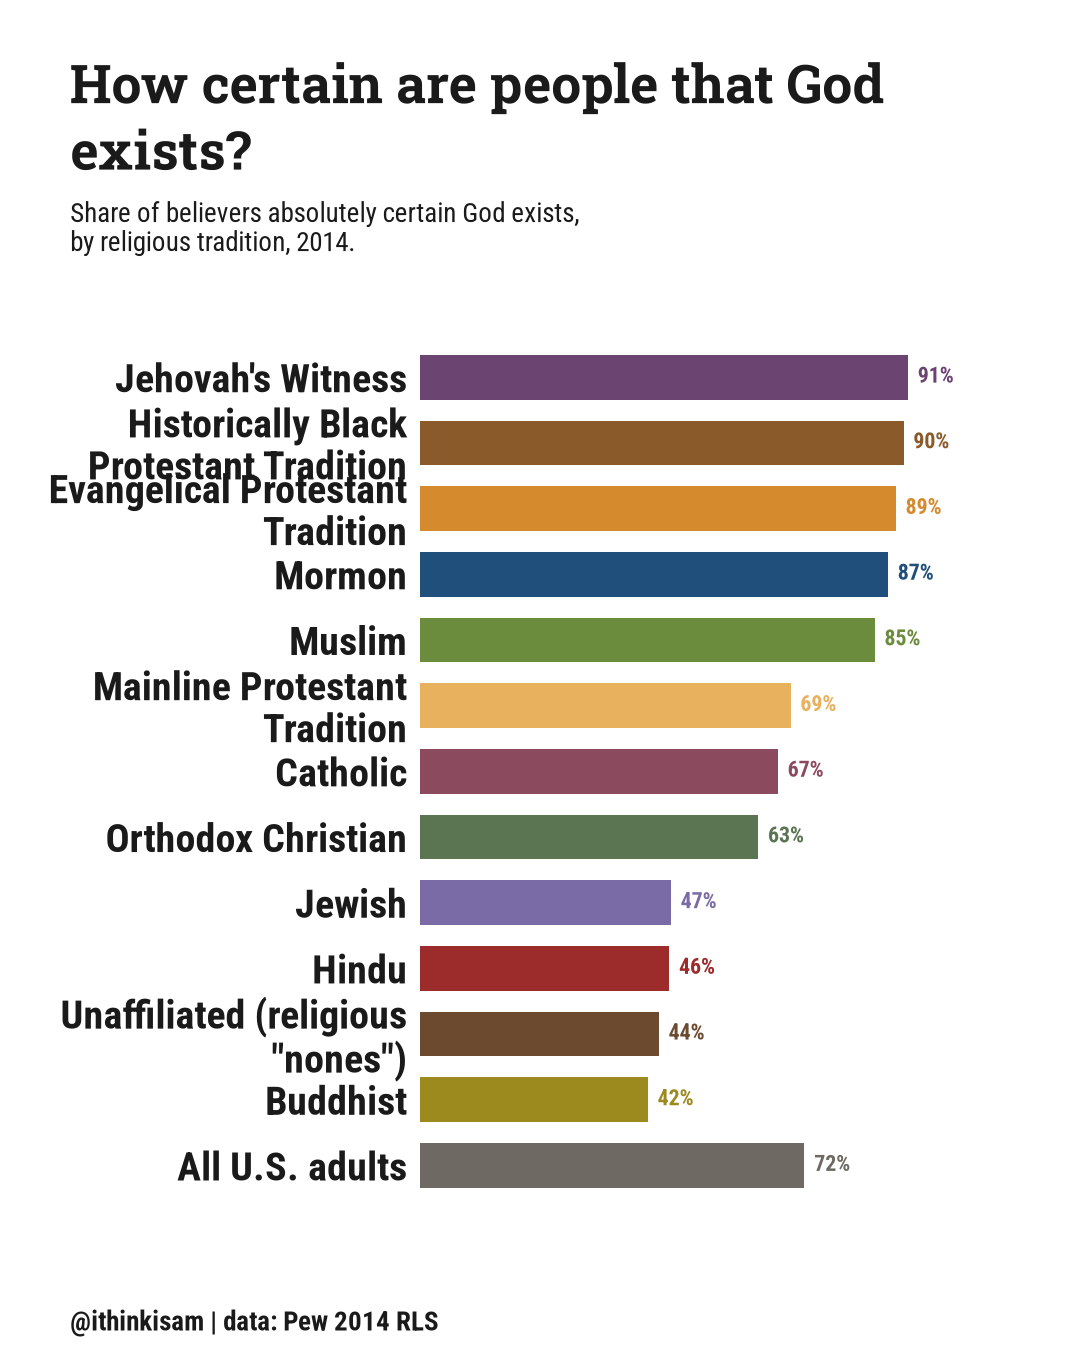
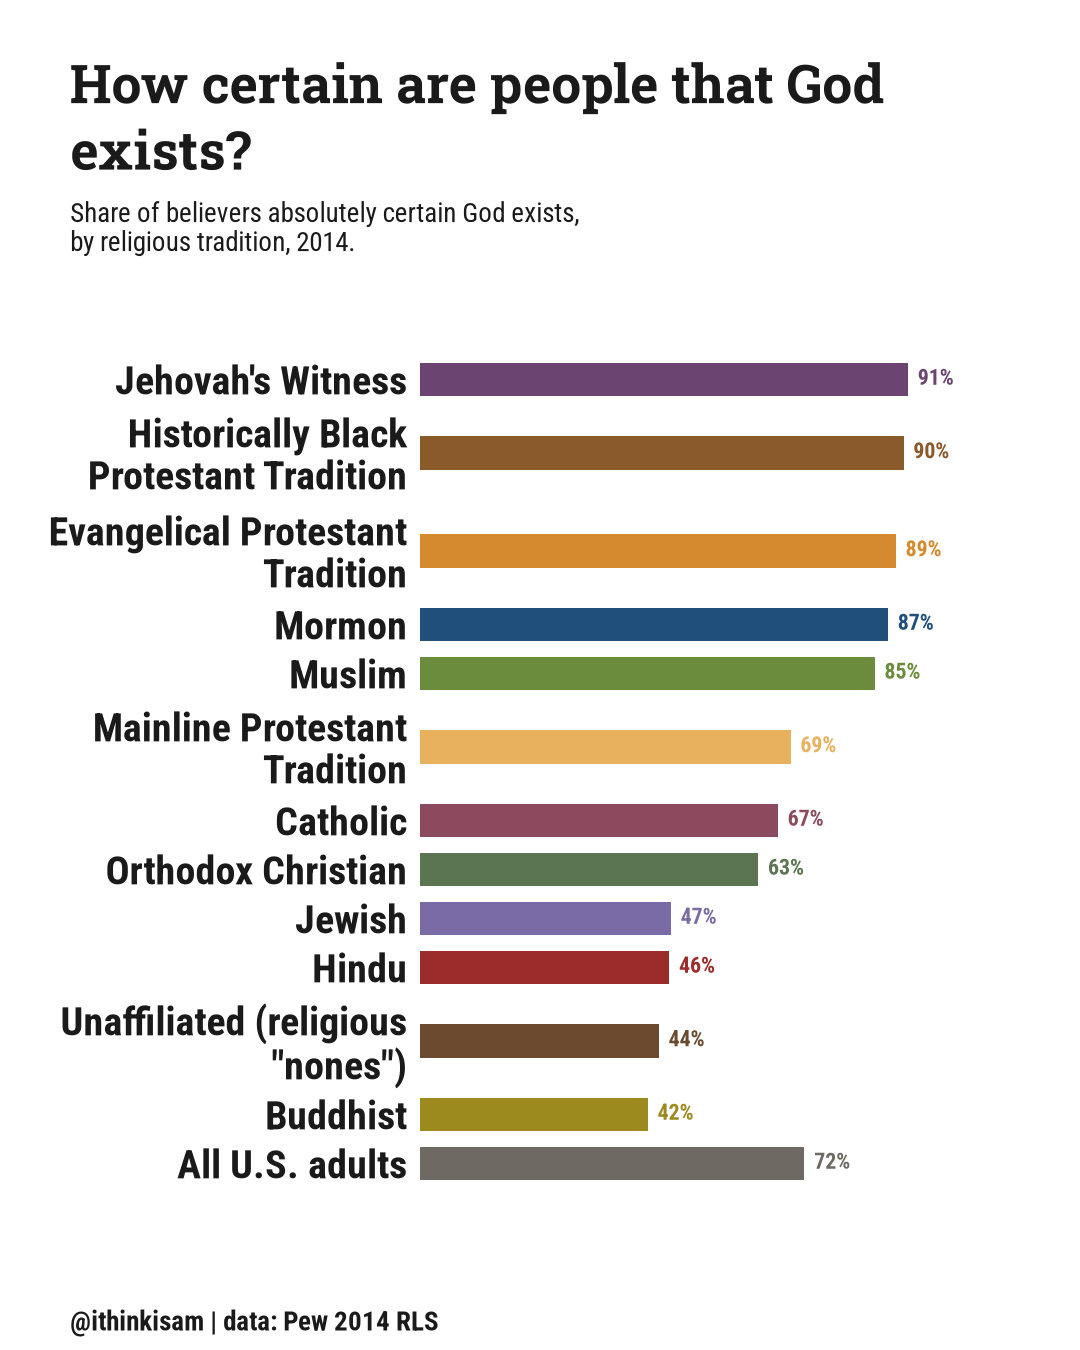
Fix wrapped row-label collision in render_magnitude_bar for high-row-count charts
The 12-group full RELTRAD breakout (view-of-god.png, certainty-of-god.png)
has several rows whose labels wrap onto 2 lines (e.g. "Historically Black
Protestant Tradition", "Mainline Protestant Tradition"). With 13 rows
sharing a fixed-height axis, each row's slot was too short to fit a 2-line
label without overlapping the adjacent row - the earlier single-row
full-sentence-label fix (0.62 bar-height cap) only ever accounted for one
oversized label at a time, not several wrapping in the same chart at once.

render_magnitude_bar now spaces row centers dynamically: a row gets a
proportionally taller slot for each extra wrapped line, while single-line
rows keep the original unit spacing - so unaffected charts render
identically and only charts with multiple wrapped rows gain the extra
room they need.

diff --git a/scripts/flagship-charts/common.py b/scripts/flagship-charts/common.py
@@ -280,14 +280,6 @@ def render_magnitude_bar(
         ]
 
     bar_h = 0.62 if n_rows <= 8 else 0.68
-    ax.barh(display_rows, vals, height=bar_h, color=colors, zorder=3)
-    ax.set_xlim(0, max(vals) * 1.22)
-    ax.margins(y=0.06 if n_rows > 8 else 0.11)
-
-    for tick_label, r in zip(ax.get_yticklabels(), display_rows):
-        tick_label.set_fontproperties(fonts["bold"])
-        tick_label.set_fontsize(MIN.LEGEND)
-        tick_label.set_color(INK)
 
     # Wrap any row label onto multiple lines if a single unbroken line would
     # eat too much of the canvas - a caller whose rows are full survey-item
@@ -299,25 +291,27 @@ def render_magnitude_bar(
     # _draw_title uses: narrow the wrap width until every label's rendered
     # width clears the cap, floored so a single very-long word can't spin
     # this into an unbounded loop.
+    #
+    # Measured via throwaway fig.text() probes rather than the axes' own
+    # yticklabels, because the final row *positions* (below) depend on how
+    # many lines each label wrapped to - measuring has to happen before
+    # anything is actually plotted at a position.
     AXES_LEFT_CAP = 0.46
     label_pad_px = 8 / 72 * DPI  # matches tick_params(pad=8) above (points -> px)
     edge_margin_px = 0.045 * FIG_W_IN * DPI  # buffer so a wide label doesn't touch the canvas edge
     max_label_width_px = (AXES_LEFT_CAP * FIG_W_IN * DPI) - label_pad_px - edge_margin_px
     row_wrap_width = 30
-    ax.set_yticks(range(len(display_rows)))
     while True:
         wrapped_labels = {r: "\n".join(textwrap.wrap(r, width=row_wrap_width)) for r in display_rows}
-        ax.set_yticklabels([wrapped_labels[r] for r in display_rows])
-        for tick_label, r in zip(ax.get_yticklabels(), display_rows):
-            tick_label.set_fontproperties(fonts["bold"])
-            tick_label.set_fontsize(MIN.LEGEND)
-            tick_label.set_color(INK)
+        probes = [
+            fig.text(0, 0, wrapped_labels[r], fontproperties=fonts["bold"], fontsize=MIN.LEGEND)
+            for r in display_rows
+        ]
         fig.canvas.draw()
         renderer = fig.canvas.get_renderer()
-        max_label_px = max(
-            (tl.get_window_extent(renderer=renderer).width for tl in ax.get_yticklabels()),
-            default=0,
-        )
+        max_label_px = max((t.get_window_extent(renderer=renderer).width for t in probes), default=0)
+        for t in probes:
+            t.remove()
         if max_label_px <= max_label_width_px or row_wrap_width <= 12:
             break
         row_wrap_width -= 2
@@ -339,9 +333,42 @@ def render_magnitude_bar(
         AXES_LEFT, AXES_WIDTH = required_left, 0.94 - required_left
         ax.set_position([AXES_LEFT, ax_bottom, AXES_WIDTH, ax_top - ax_bottom])
 
-    for r, v, c in zip(display_rows, vals, colors):
+    # Row centers default to unit spacing (one slot per row - identical to
+    # matplotlib's own categorical 0..n-1 placement), but a row whose
+    # wrapped label spans multiple lines gets a proportionally taller slot.
+    # Without this, a chart with many rows (e.g. the 13-row full RELTRAD
+    # breakout used by view-of-god.png/certainty-of-god.png) packs rows too
+    # tightly for a 2-line label to fit inside its own slot - the label
+    # collides with the row above it - even though the same wrap-and-cap
+    # fix above already solved the single-row full-sentence-label version
+    # of this problem. A fixed row height was only ever enough for *one*
+    # oversized label at a time; several wrapping at once in the same
+    # narrow-row chart needs the row spacing itself to flex.
+    lines_per_row = {r: wrapped_labels[r].count("\n") + 1 for r in display_rows}
+    weights = [lines_per_row[r] for r in display_rows]
+    row_positions = []
+    running = 0.0
+    for i, w in enumerate(weights):
+        running += w / 2 if i == 0 else weights[i - 1] / 2 + w / 2
+        row_positions.append(running)
+
+    ax.barh(row_positions, vals, height=bar_h, color=colors, zorder=3)
+    ax.set_xlim(0, max(vals) * 1.22)
+    margin_frac = 0.06 if n_rows > 8 else 0.11
+    span = (row_positions[-1] + weights[-1] / 2) - (row_positions[0] - weights[0] / 2)
+    pad = span * margin_frac
+    ax.set_ylim(row_positions[0] - weights[0] / 2 - pad, row_positions[-1] + weights[-1] / 2 + pad)
+
+    ax.set_yticks(row_positions)
+    ax.set_yticklabels([wrapped_labels[r] for r in display_rows])
+    for tick_label in ax.get_yticklabels():
+        tick_label.set_fontproperties(fonts["bold"])
+        tick_label.set_fontsize(MIN.LEGEND)
+        tick_label.set_color(INK)
+
+    for r, v, c, y in zip(display_rows, vals, colors, row_positions):
         ax.text(
-            v + max(vals) * 0.02, r, f"{v:.0f}{value_suffix}", va="center", ha="left",
+            v + max(vals) * 0.02, y, f"{v:.0f}{value_suffix}", va="center", ha="left",
             color=c, fontproperties=fonts["bold"],
             fontsize=MIN.DATA_LABEL if n_rows > 8 else 15, zorder=4,
         )
